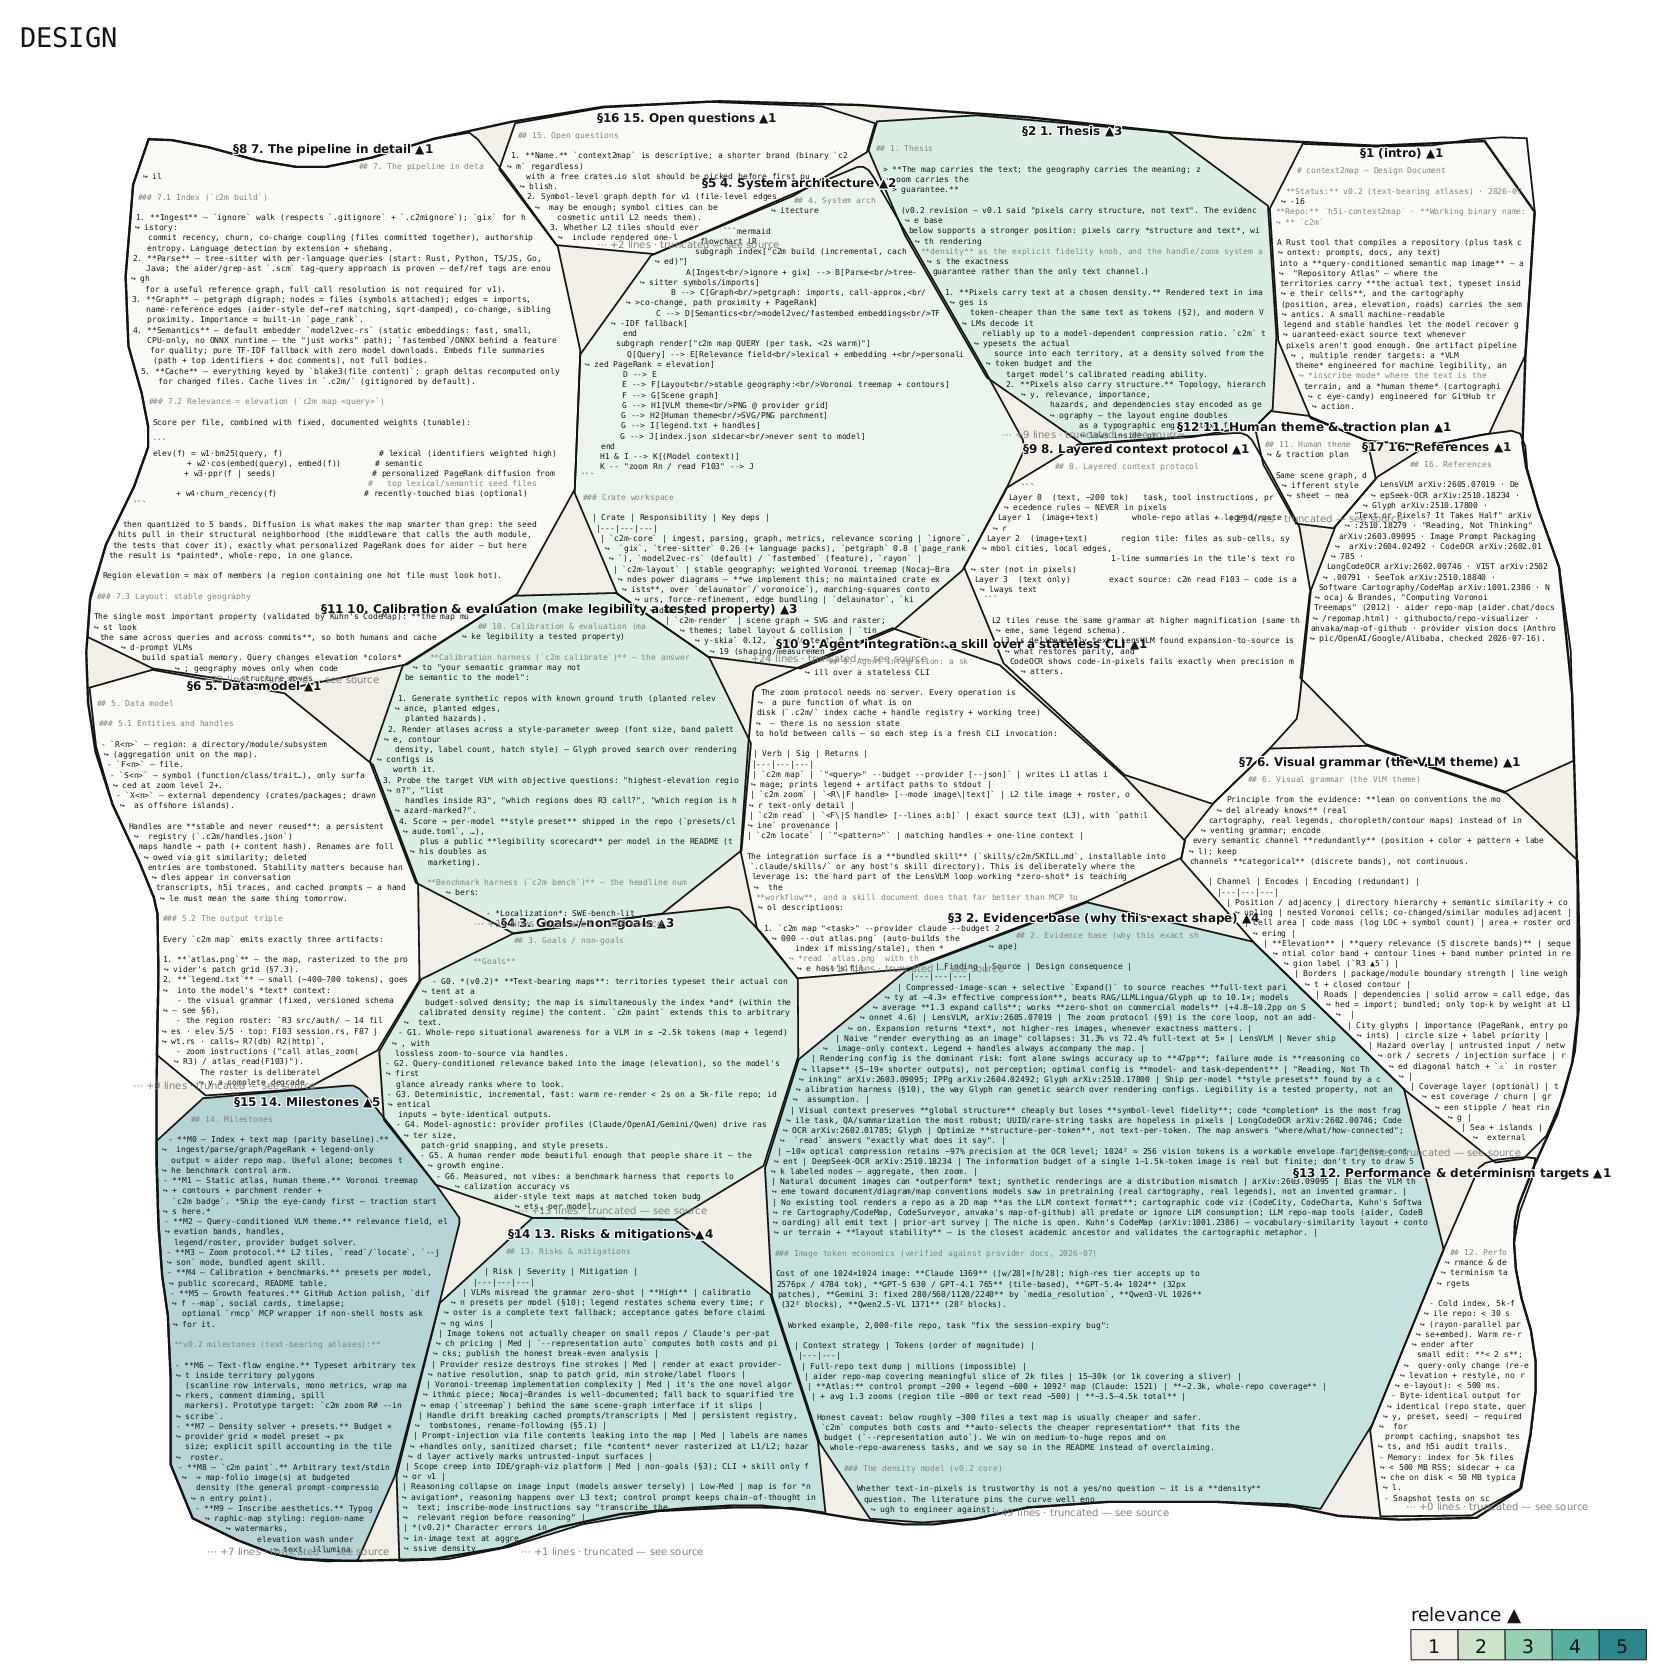
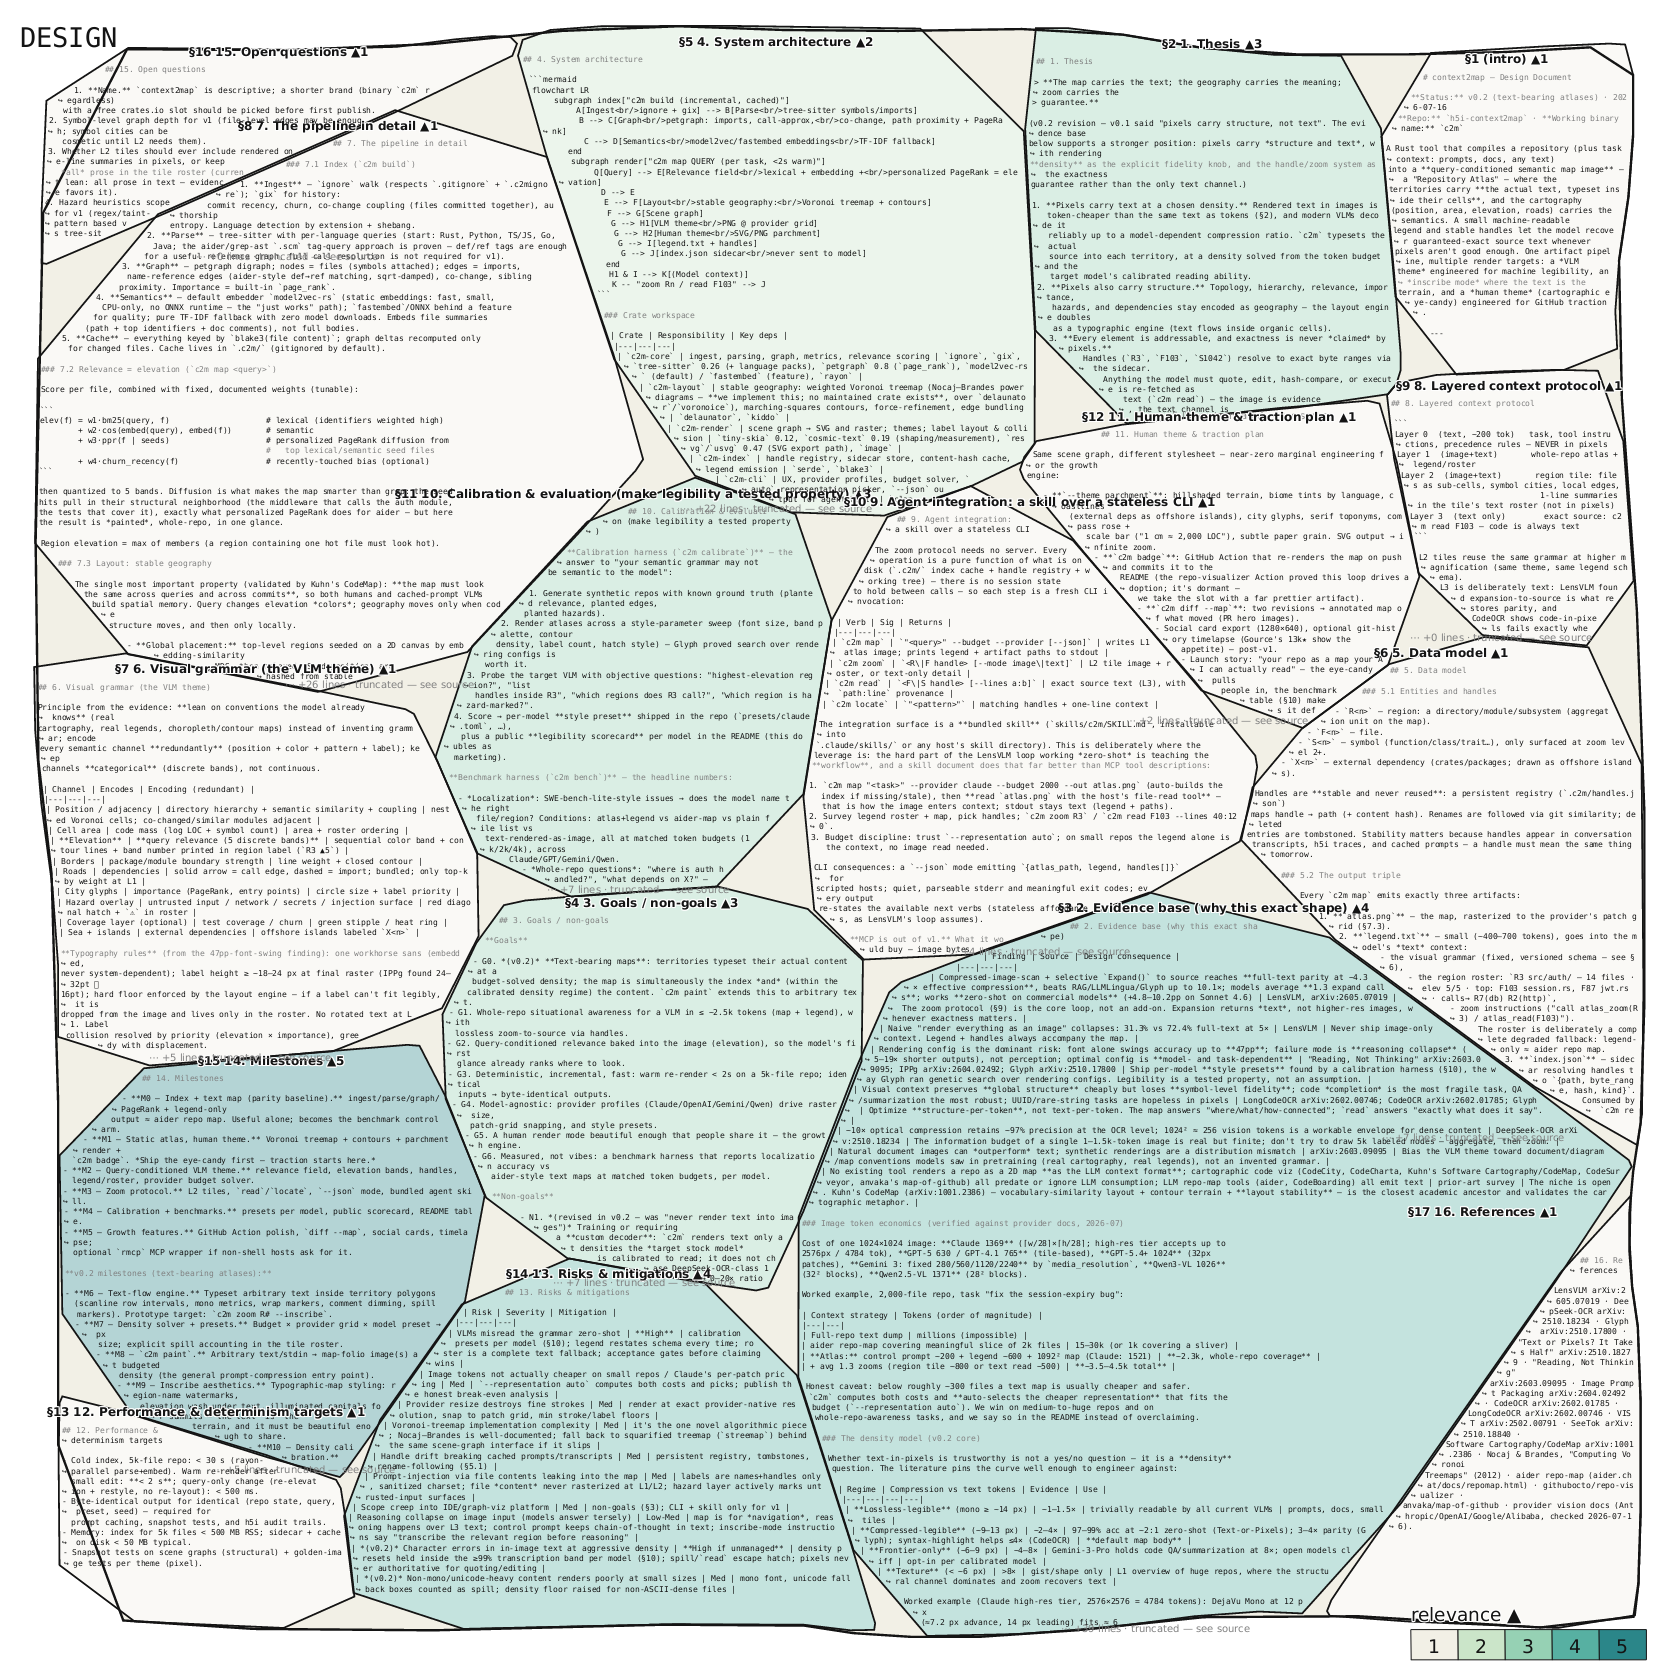
Fold badge into paint --badge; densify text-bearing maps
badge is now `c2m paint --badge` (parchment SVG social card, input
defaults to cwd) — one less top-level command; the Badge subcommand
is gone.

Whitespace pass, prompted by comparison with pxpipe's ~95%-fill
rectangular pages: text-bearing maps (inscribe tiles, doc maps) now
use a 3% sea margin instead of 8.5%, text-flow padding drops from
0.7em to 0.45em, and rows down to 8 chars wide are used instead of
skipped. The structural channels between cells remain (that geometry
IS the map); the idle borders are gone. README hero regenerated with
the denser layout.

diff --git a/crates/c2m-cli/src/main.rs b/crates/c2m-cli/src/main.rs
@@ -58,6 +58,10 @@ enum Cmd {
         /// (parchment-flavored candidate — same grammar, softer colors).
         #[arg(long, default_value = "vlm")]
         theme: String,
+        /// Human-facing social card instead (parchment SVG, 1280x640) —
+        /// the README hero image. Input defaults to the current directory.
+        #[arg(long)]
+        badge: bool,
         /// Output directory for page PNGs (default: current directory).
         #[arg(long)]
         out_dir: Option<PathBuf>,
@@ -123,11 +127,6 @@ enum Cmd {
         #[arg(long)]
         title: Option<String>,
     },
-    /// README hero image: parchment SVG at social-card size.
-    Badge {
-        #[arg(long)]
-        out: Option<PathBuf>,
-    },
     /// (Re)index the repository into .c2m/ (map does this implicitly).
     Build,
     /// Legibility probes on a synthetic repo (offline bundle or --live).
@@ -192,6 +191,34 @@ fn main() -> anyhow::Result<()> {
         Cmd::Locate { pattern } => ops::locate(repo, &pattern),
         Cmd::Paint {
             input,
+            provider: _,
+            font_px: _,
+            no_reflow: _,
+            budget: _,
+            query: _,
+            index: _,
+            out_dir,
+            force: _,
+            json: _,
+            theme: _,
+            badge,
+        } if badge => ops::render(
+            input.as_deref().or(repo),
+            "",
+            "parchment",
+            "svg",
+            Some(
+                out_dir
+                    .map(|d| d.join("repo-map.svg"))
+                    .unwrap_or_else(|| std::path::PathBuf::from("repo-map.svg"))
+                    .as_path(),
+            ),
+            1280,
+            640,
+            None,
+        ),
+        Cmd::Paint {
+            input,
             provider,
             font_px: _,
             no_reflow: _,
@@ -202,6 +229,7 @@ fn main() -> anyhow::Result<()> {
             force: _,
             json,
             theme,
+            badge: _,
         } if index => ops::index_atlas(
             input.as_deref().or(repo),
             &query,
@@ -225,6 +253,7 @@ fn main() -> anyhow::Result<()> {
             force,
             json,
             theme,
+            badge: _,
         } => ops::paint(
             input.as_deref(),
             provider,
@@ -254,17 +283,6 @@ fn main() -> anyhow::Result<()> {
             width,
             height,
             title.as_deref(),
-        ),
-        Cmd::Badge { out } => ops::render(
-            repo,
-            "",
-            "parchment",
-            "svg",
-            out.as_deref()
-                .or(Some(std::path::Path::new("repo-map.svg"))),
-            1280,
-            640,
-            None,
         ),
         Cmd::Calibrate {
             dir,

diff --git a/crates/c2m-render/src/scene.rs b/crates/c2m-render/src/scene.rs
@@ -266,6 +266,8 @@ pub fn build_doc(sections: &[DocSection], cfg: &SceneConfig) -> Scene {
         aspect: cfg.width as f32 / cfg.height as f32,
         seed: cfg.seed,
         n_islands: 0,
+        // text-bearing maps: the sea is a sliver — pixels carry text
+        margin: 0.030,
         ..Default::default()
     };
     let mut saved = SavedSites::default();
@@ -350,6 +352,8 @@ pub fn build_l2(
         aspect: cfg.width as f32 / cfg.height as f32,
         seed: cfg.seed ^ 0x2200,
         n_islands: 0,
+        // zoom tiles exist to carry content; minimal sea margin
+        margin: if content.is_some() { 0.030 } else { 0.055 },
         ..Default::default()
     };
     let l = layout(&territories, &lopts, saved);

diff --git a/crates/c2m-render/src/theme.rs b/crates/c2m-render/src/theme.rs
@@ -127,7 +127,7 @@ pub fn flow_text_ops(
     let font = FontKind::Mono;
     let advance = text::measure("M", size_px, font).max(1.0);
     let line_h = size_px * 1.28;
-    let pad = size_px * 0.7;
+    let pad = size_px * 0.45;
     let (_, _, _, by1) = poly_bbox_px(poly, canvas_w, canvas_h);
 
     let mut ops = Vec::new();
@@ -146,7 +146,7 @@ pub fn flow_text_ops(
         };
         let (x0, x1) = (tx0.max(bx0) + pad, tx1.min(bx1) - pad);
         let capacity = ((x1 - x0) / advance) as usize;
-        if capacity < 12 {
+        if capacity < 8 {
             continue;
         }
 

diff --git a/README.md b/README.md
@@ -59,7 +59,7 @@ c2m read F103 --lines 40:120          # exact source, always text
 c2m locate "session"                  # find handles
 
 c2m render --out map.svg              # the pretty human map (parchment theme)
-c2m badge                             # README-sized social image
+c2m paint --badge                     # README-sized social card (parchment SVG)
 ```
 
 Machine outputs take `--theme vlm` (stark, the calibrated default) or
@@ -69,7 +69,7 @@ becomes the default only if it matches stark's probe scores).
 
 <img src="assets/repo-map.svg" alt="Parchment map of this repo" width="55%"/>
 
-*(`c2m badge`: the human-facing parchment theme of the same geography)*
+*(`c2m paint --badge`: the human-facing parchment theme of the same geography)*
 
 `c2m` never spends tokens on a picture that doesn't pay for itself: `map`
 falls back to a text roster on small repos, and `paint` refuses when text is

diff --git a/skills/c2m/SKILL.md b/skills/c2m/SKILL.md
@@ -80,4 +80,4 @@ source of truth — exact code always comes from `c2m read` as text.
 - `--json` on `map`/`zoom` gives `{atlas_path, legend, ...}` when you need to
   script it.
 - For a human-facing map (README, PR description):
-  `c2m render --out map.svg` (parchment theme) or `c2m badge`.
+  `c2m render --out map.svg` (parchment theme) or `c2m paint --badge`.